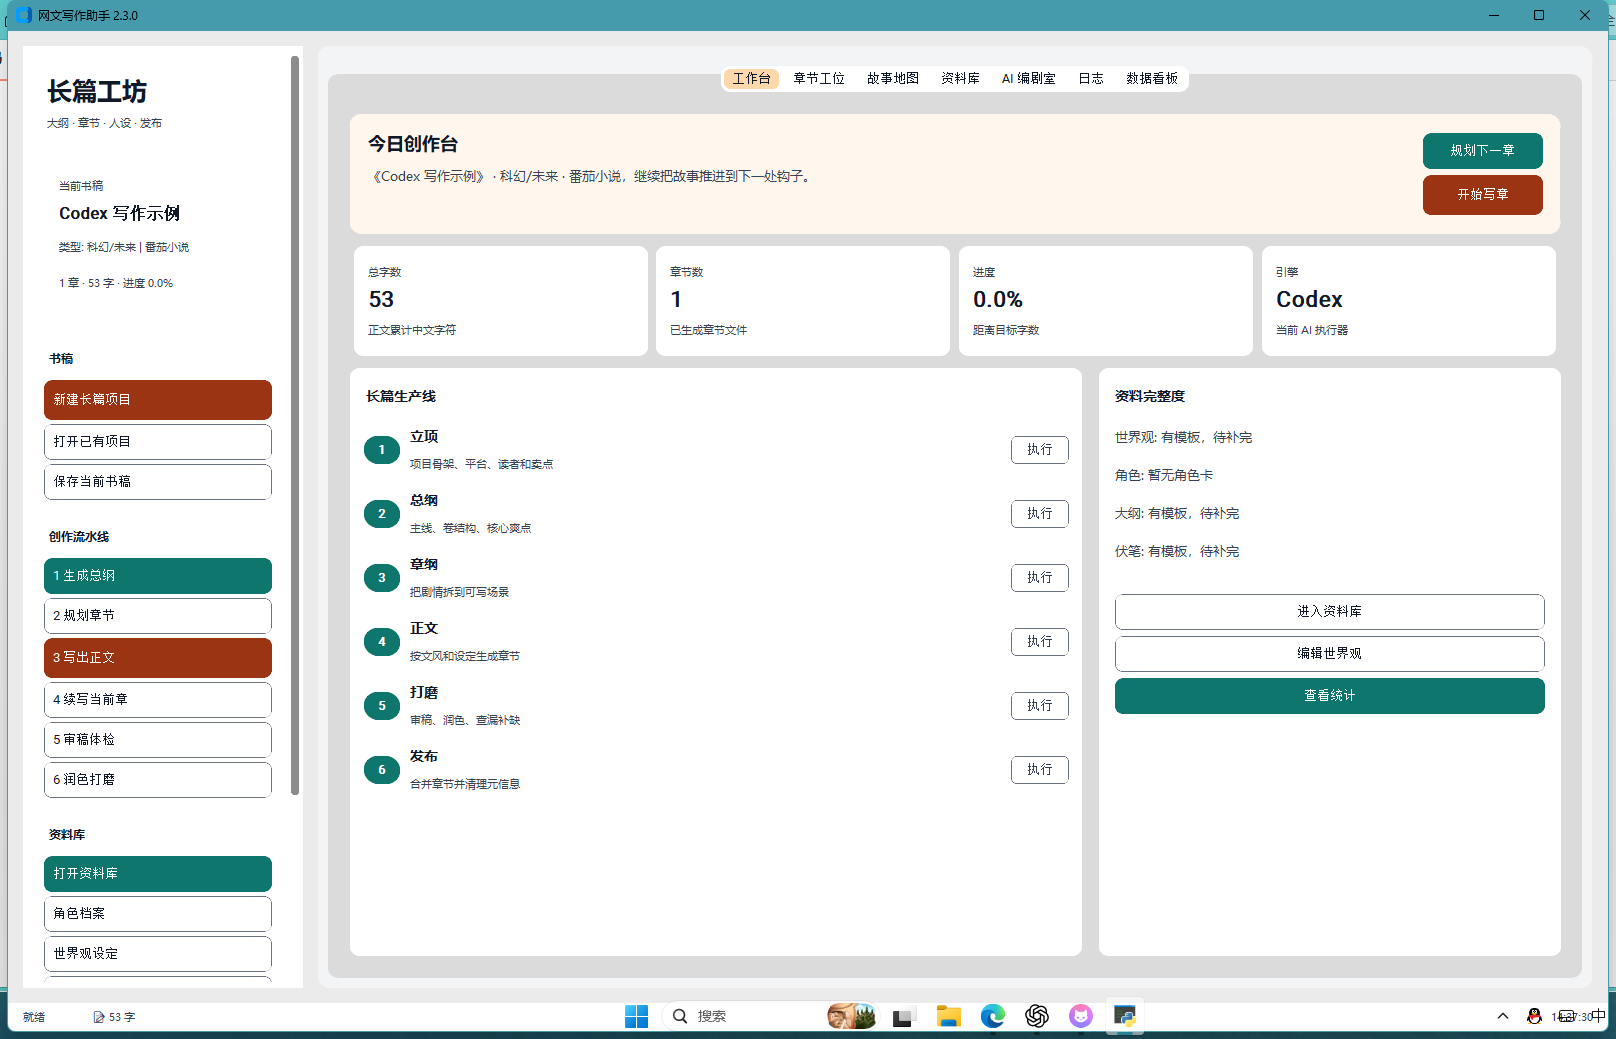
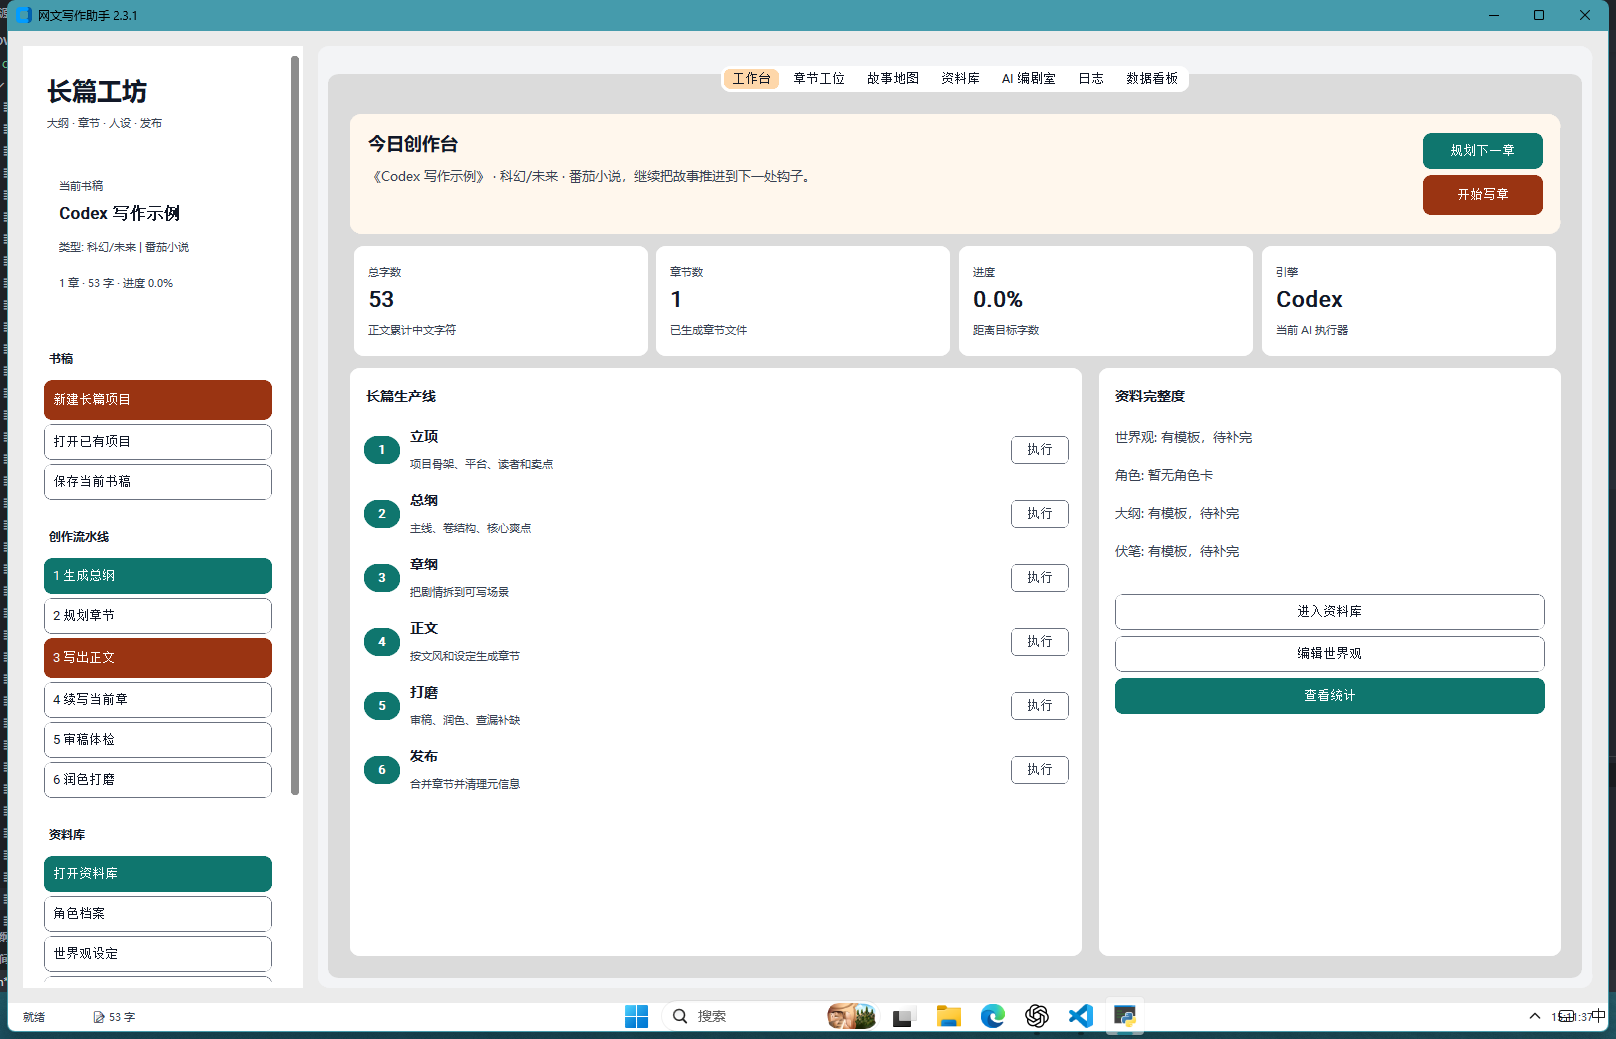
Fix Windows Codex CLI discovery

diff --git a/novel_writer_gui.py b/novel_writer_gui.py
@@ -113,7 +113,7 @@ FONT_DISPLAY = ("Microsoft YaHei UI", 18, "bold")
 FONT_CARD_TITLE = ("Microsoft YaHei UI", 14, "bold")
 
 APP_SETTINGS_FILE = ".novel_writer_settings.json"
-APP_VERSION = "2.3.0"
+APP_VERSION = "2.3.1"
 REQUIRED_SKILL_FILES = (
     "SKILL.md",
     os.path.join("agents", "openai.yaml"),
@@ -138,6 +138,69 @@ WINDOWS_RESERVED_NAMES = {
     *(f"COM{i}" for i in range(1, 10)),
     *(f"LPT{i}" for i in range(1, 10)),
 }
+
+
+def resolve_codex_path(environment=None):
+    """查找 Windows 上的 Codex CLI，兼容 npm shim 和 Codex Desktop 安装。"""
+    environment = environment or os.environ
+    candidates = []
+
+    configured = environment.get("CODEX_PATH", "").strip().strip('"')
+    if configured:
+        candidates.append(configured)
+
+    for command in ("codex", "codex.exe", "codex.cmd", "codex.bat"):
+        found = shutil.which(command)
+        if found:
+            candidates.append(found)
+
+    appdata = environment.get("APPDATA", "")
+    local_appdata = environment.get("LOCALAPPDATA", "")
+    candidates.extend([
+        os.path.join(appdata, "npm", "codex.cmd"),
+        os.path.join(appdata, "npm", "codex.exe"),
+        os.path.join(local_appdata, "npm", "codex.cmd"),
+        os.path.join(local_appdata, "npm", "codex.exe"),
+    ])
+
+    # Codex Desktop puts the bundled CLI in a versioned subdirectory.
+    codex_bin = os.path.join(local_appdata, "OpenAI", "Codex", "bin")
+    if os.path.isdir(codex_bin):
+        try:
+            versioned = [
+                os.path.join(codex_bin, name, "codex.exe")
+                for name in os.listdir(codex_bin)
+            ]
+            versioned.sort(key=lambda path: os.path.getmtime(path) if os.path.isfile(path) else 0,
+                           reverse=True)
+            candidates.extend(versioned)
+        except OSError:
+            pass
+
+    seen = set()
+    for candidate in candidates:
+        if not candidate:
+            continue
+        normalized = os.path.abspath(os.path.expandvars(os.path.expanduser(candidate)))
+        key = os.path.normcase(normalized)
+        if key in seen:
+            continue
+        seen.add(key)
+        if os.path.isfile(normalized):
+            return normalized
+    return None
+
+
+def build_codex_cli_command(arguments=()):
+    """构造可执行的 Codex 命令，避免依赖启动 GUI 时继承的 PATH。"""
+    codex_path = resolve_codex_path()
+    arguments = list(arguments)
+    if codex_path:
+        extension = os.path.splitext(codex_path)[1].lower()
+        if extension in (".exe", ".com"):
+            return [codex_path, *arguments]
+        return ["cmd.exe", "/d", "/c", codex_path, *arguments]
+    return ["cmd.exe", "/d", "/c", "codex", *arguments]
 
 MOJIBAKE_MARKERS = (
     "锟斤拷", "鐨", "涓", "鍦", "鍙", "鏄", "绛", "杩", "瀹", "灏",
@@ -1425,14 +1488,7 @@ class ModernNovelWriterApp:
     def build_ai_command(self, message):
         """构造 Codex 命令；任务文本只经 stdin 传入，不经过命令壳解析。"""
         prompt = self.build_codex_prompt(message)
-        codex_path = shutil.which("codex")
-        if codex_path and os.path.splitext(codex_path)[1].lower() in (".exe", ".com"):
-            cmd = [codex_path]
-        else:
-            # npm 在 Windows 上通常安装 .cmd shim。命令行内容保持常量，
-            # 项目路径交给 Popen(cwd=...)，用户任务通过 stdin 传输。
-            cmd = ["cmd.exe", "/d", "/c", "codex"]
-        cmd.extend([
+        cmd = build_codex_cli_command([
             "--ask-for-approval", "never",
             "exec",
             "--skip-git-repo-check",
@@ -1445,6 +1501,10 @@ class ModernNovelWriterApp:
     def build_ai_environment(self):
         """构造 AI 子进程环境变量。"""
         env = os.environ.copy()
+        codex_path = resolve_codex_path(env)
+        if codex_path:
+            codex_directory = os.path.dirname(codex_path)
+            env["PATH"] = codex_directory + os.pathsep + env.get("PATH", "")
         env.setdefault("PYTHONUTF8", "1")
         env.setdefault("PYTHONIOENCODING", "utf-8")
         env.setdefault("LANG", "C.UTF-8")
@@ -1469,14 +1529,16 @@ class ModernNovelWriterApp:
 
     def preflight_ai_command(self, cwd):
         """执行前做快速检查，避免明显不可用的 CLI 配置长时间卡住。"""
-        if not shutil.which("codex"):
-            return "未找到 Codex CLI，请先安装：npm install -g @openai/codex@latest"
+        codex_path = resolve_codex_path()
+        if not codex_path:
+            return ("未找到 Codex CLI。请安装并登录 Codex，或把 codex.exe 放入 PATH；"
+                    "npm 安装命令：npm install -g @openai/codex@latest")
         return None
 
     def check_codex_login_status(self, cwd):
         """快速确认 Codex CLI 是否有可用登录凭据。"""
         returncode, output, timed_out = self.run_command_with_timeout(
-            ["cmd.exe", "/d", "/c", "codex", "login", "status"],
+            build_codex_cli_command(["login", "status"]),
             cwd,
             timeout=8,
         )
@@ -1962,7 +2024,7 @@ class ModernNovelWriterApp:
             f"EXE/源码内置 Skill: {'完整' if has_bundled_skill_resources() else '不完整'}",
         ]
 
-        codex_path = shutil.which("codex")
+        codex_path = resolve_codex_path()
         lines.append(f"PATH 中的 codex: {codex_path or '未找到'}")
 
         if self.project_path:
@@ -1978,10 +2040,10 @@ class ModernNovelWriterApp:
             lines.append(f"本机 provider 端口进程: {self.find_local_port_owner(local_base_url)}")
         lines.append("")
         lines.append(self.capture_command("where codex", ["where.exe", "codex"], timeout=8))
-        lines.append(self.capture_command("codex --version", ["cmd.exe", "/d", "/c", "codex", "--version"], timeout=8))
+        lines.append(self.capture_command("codex --version", build_codex_cli_command(["--version"]), timeout=8))
         lines.append("[Codex 诊断] 执行任务时直接调用 codex exec，并读取本机 Codex CLI 的现有配置。")
         lines.append(self.capture_command(
-            "codex login status", ["cmd.exe", "/d", "/c", "codex", "login", "status"], timeout=8))
+            "codex login status", build_codex_cli_command(["login", "status"]), timeout=8))
 
         joined = "\n".join(lines)
         if "127.0.0.1" in joined or "503 Service Unavailable" in joined:

diff --git a/tests/test_app.py b/tests/test_app.py
@@ -267,6 +267,24 @@ class AppTests(unittest.TestCase):
         self.assertIn("workspace-write", command)
         self.assertEqual(command[-1], "-")
 
+    def test_codex_desktop_installation_is_found_without_path_entry(self):
+        install_root = self.root / "LocalAppData" / "OpenAI" / "Codex" / "bin" / "version-1"
+        install_root.mkdir(parents=True)
+        executable = install_root / "codex.exe"
+        executable.write_bytes(b"stub")
+        with patch.object(gui.shutil, "which", return_value=None), patch.dict(
+                os.environ,
+                {"LOCALAPPDATA": str(self.root / "LocalAppData"), "CODEX_PATH": ""},
+                clear=False):
+            self.assertEqual(Path(gui.resolve_codex_path()).resolve(), executable.resolve())
+            self.assertIsNone(self.app.preflight_ai_command(str(self.root)))
+
+    def test_codex_command_uses_resolved_executable(self):
+        with patch.object(gui, "resolve_codex_path", return_value=r"C:\Codex\codex.exe"):
+            command, _ = self.app.build_ai_command("查看状态")
+        self.assertEqual(command[0], r"C:\Codex\codex.exe")
+        self.assertNotIn("cmd.exe", command)
+
     def test_review_targets_selected_chapter(self):
         self.app._loaded_chapter_num = 12
         self.app.send_message = Mock()

diff --git a/README.md b/README.md
@@ -7,19 +7,19 @@
 ![License](https://img.shields.io/badge/License-MIT-green)
 ![AI](https://img.shields.io/badge/AI-OpenAI%20Codex-orange)
 
-## 界面预览（v2.3.0）
+## 界面预览（v2.3.1）
 
-以下截图来自当前 v2.3.0 程序，展示 Codex 工作台、章节工位和 Codex 编剧室。
+以下截图来自当前 v2.3.1 程序，展示 Codex 工作台、章节工位和 Codex 编剧室。
 
-![v2.3.0 Codex 工作台](images/screenshot_1.png)
+![v2.3.1 Codex 工作台](images/screenshot_1.png)
 
-![v2.3.0 章节工位](images/screenshot_2.png)
+![v2.3.1 章节工位](images/screenshot_2.png)
 
-![v2.3.0 Codex 编剧室](images/screenshot_3.png)
+![v2.3.1 Codex 编剧室](images/screenshot_3.png)
 
 ## 版本亮点
 
-当前版本 **v2.3.0**。修复卷纲误写总纲、未保存修改丢失、外部文件冲突、任务取消和导出一致性等问题，详见 [更新记录](RELEASE_v2.3.0.md)。Windows EXE 可从 [Releases](https://github.com/ShmilyWithme/Shmily_novel_skill/releases/latest) 下载。
+当前版本 **v2.3.1**。修复卷纲误写总纲、未保存修改丢失、外部文件冲突、任务取消和 Codex CLI 自动发现等问题，详见 [更新记录](RELEASE_v2.3.1.md)。Windows EXE 可从 [Releases](https://github.com/ShmilyWithme/Shmily_novel_skill/releases/latest) 下载。
 
 当前版本通过本机 Codex CLI 执行写作任务，项目 Skill 位于 `.agents/skills/novel-write`。应用自动把任务提示通过标准输入传给 Codex，并在小说项目目录内运行。
 
@@ -104,7 +104,7 @@ build.bat
 python build_release.py
 ```
 
-构建会把 Codex Skill 打包进单文件 EXE，输出到 `dist/网文写作助手.exe`。用户仍需自行安装并登录 Codex CLI。
+构建会把 Codex Skill 打包进单文件 EXE，输出到 `dist/网文写作助手.exe`。程序会自动查找 PATH、npm 全局目录和 Codex Desktop 安装目录中的 CLI；用户仍需自行安装并登录 Codex CLI。
 
 构建前安装 `requirements-build.txt` 中的依赖。脚本验证包内 Skill 与源码一致，并生成 `dist/SHA256SUMS.txt`；详细步骤见 [构建说明](BUILD_README.md)。
 
@@ -122,7 +122,7 @@ git diff --check
 
 ### 找不到 Codex CLI
 
-确认 `codex` 已安装且位于 PATH 中，然后重新启动应用。可运行 `codex --version` 检查安装。
+确认已安装并登录 Codex CLI。程序会自动查找 PATH、`%APPDATA%\npm`、`%LOCALAPPDATA%\npm` 和 `%LOCALAPPDATA%\OpenAI\Codex\bin\*\codex.exe`；也可以设置 `CODEX_PATH` 指向自定义 CLI。可运行 `codex --version` 检查安装。
 
 ### Codex 返回 503 或连接本地服务失败
 

diff --git a/RELEASE_v2.3.1.md b/RELEASE_v2.3.1.md
@@ -1,0 +1,20 @@
+# 网文写作助手 v2.3.1
+
+## Codex CLI 自动发现
+
+- 修复从 Windows 快捷方式启动时因环境变量不完整而误报“未找到 Codex CLI”的问题。
+- 自动查找系统 PATH、`%APPDATA%\npm`、`%LOCALAPPDATA%\npm` 和 Codex Desktop 的版本化安装目录。
+- 支持通过 `CODEX_PATH` 指定自定义 `codex.exe`、`codex.cmd` 或 `codex.bat`。
+- Codex 版本检查、登录状态检查和实际写作任务统一使用同一条已发现的 CLI 路径。
+
+## 验证
+
+- 31 项本地测试通过。
+- Windows GitHub Actions 测试和打包会继续验证真实 EXE 启动。
+
+下载 `NovelWriter-v2.3.1-Windows.exe`，安装并登录 Codex CLI 后运行。源码版需 Python 3.10+：
+
+```powershell
+python -m pip install -r requirements.txt
+python novel_writer_gui.py
+```

diff --git a/BUILD_README.md b/BUILD_README.md
@@ -34,7 +34,7 @@ git diff --check
 
 输出：
 
-- `dist/网文写作助手.exe`：单文件桌面程序（GitHub Release 上传时命名为 `NovelWriter-v2.3.0-Windows.exe`）。
+- `dist/网文写作助手.exe`：单文件桌面程序（GitHub Release 上传时命名为 `NovelWriter-v2.3.1-Windows.exe`）。
 - `dist/SHA256SUMS.txt`：发布文件的 SHA-256 校验值。
 
 脚本仅清理 `build/release/` 构建缓存，保留 `dist` 中的用户项目和配置。打包后会逐文件比较内置 Skill 与源码；校验失败会使构建失败。发布包只包含程序、依赖和通用 Skill，不包含用户小说、登录凭据或应用设置。
